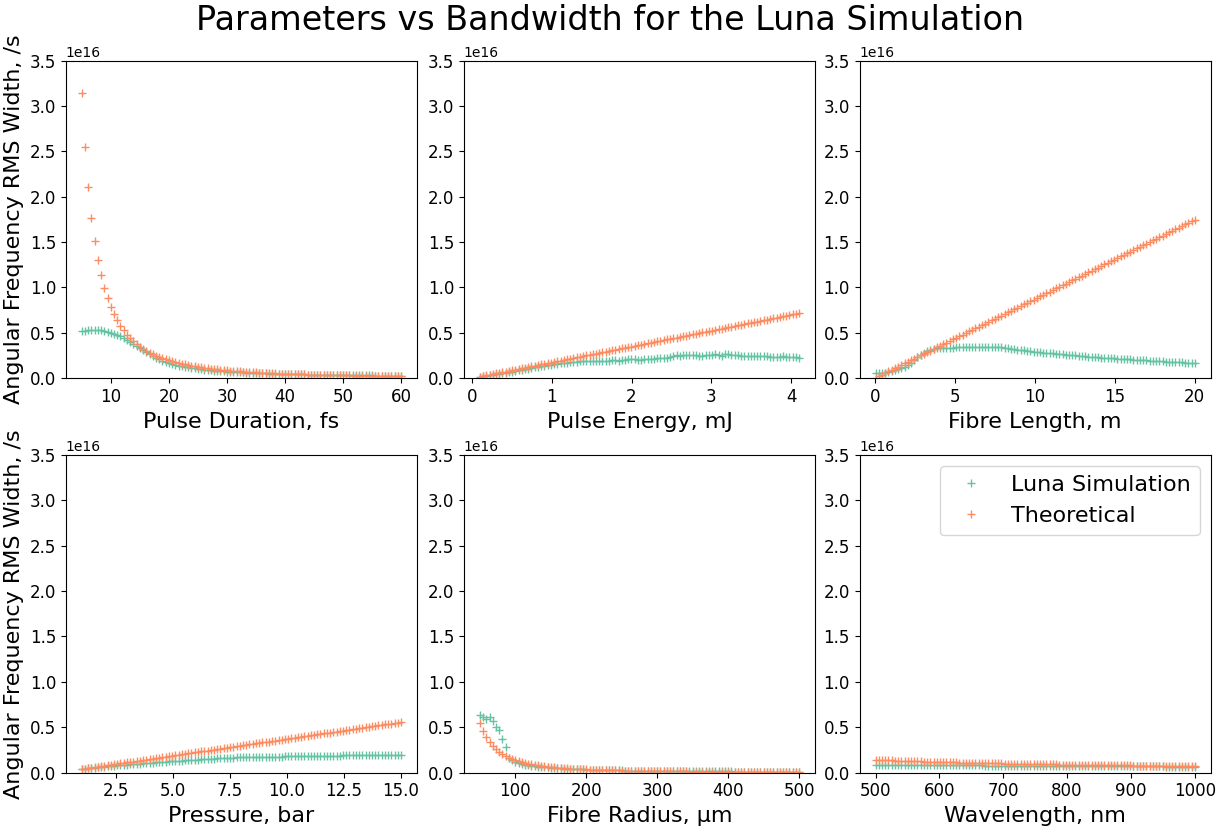
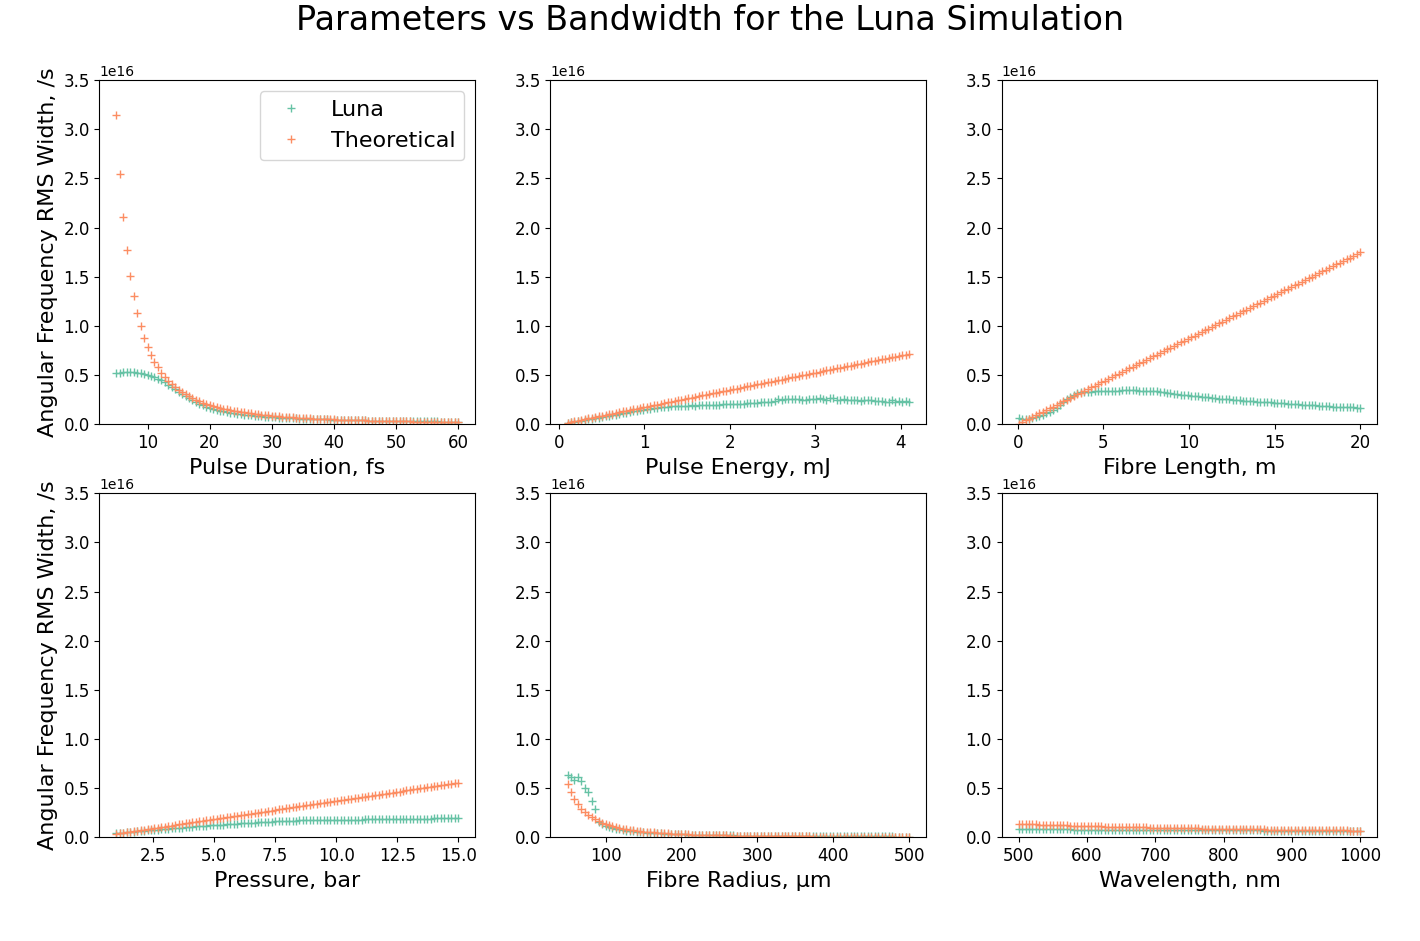
moved legend to first plot

diff --git a/HCF sim/Python/building_datasets/gaussian_input/angfreq_bandwidth/plots/simulation vs theoretical/plot_all_in_subplots.py b/HCF sim/Python/building_datasets/gaussian_input/angfreq_bandwidth/plots/simulation vs theoretical/plot_all_in_subplots.py
@@ -70,7 +70,7 @@ f_ax5.set_xlabel('Fibre Radius, μm', fontsize=16)
 f_ax6.plot(df_wavelength.iloc[:,0], df_wavelength.iloc[:,1], '+', label='Luna Simulation')
 f_ax6.plot(df_wavelength.iloc[:,0], df_wavelength.iloc[:,2], '+', label='Theoretical')
 f_ax6.set_xlabel('Wavelength, nm', fontsize=16)
-plt.legend(fontsize=16)
+f_ax1.legend(fontsize=16)
 
 
 plt.suptitle("Parameters vs Bandwidth for the Luna Simulation", fontsize=24)
